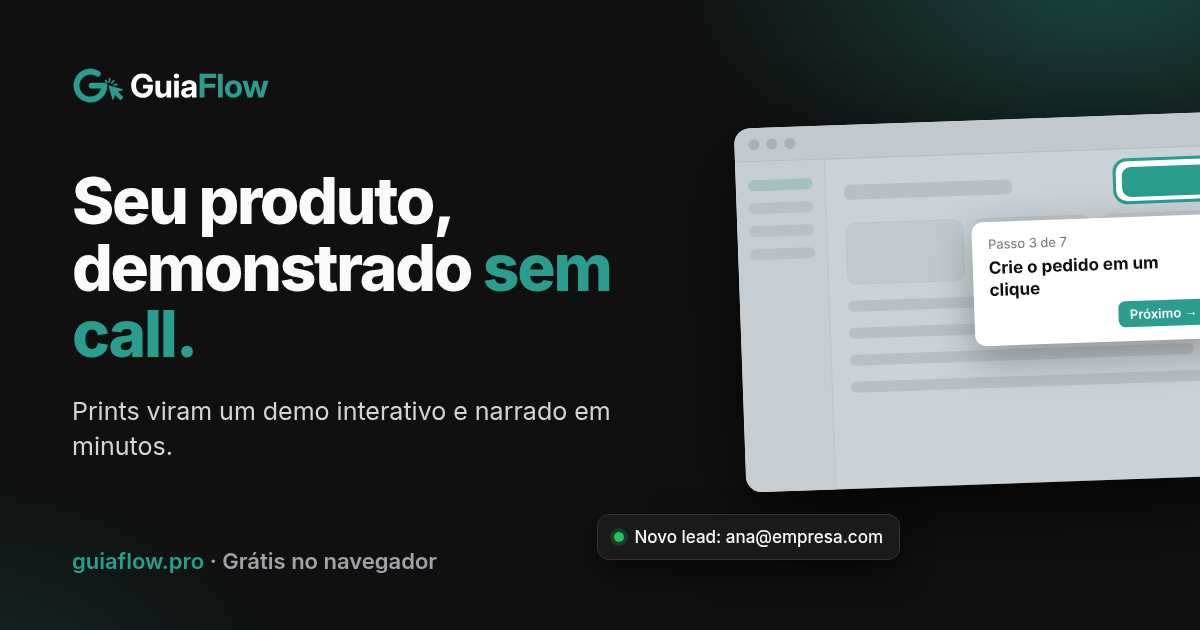
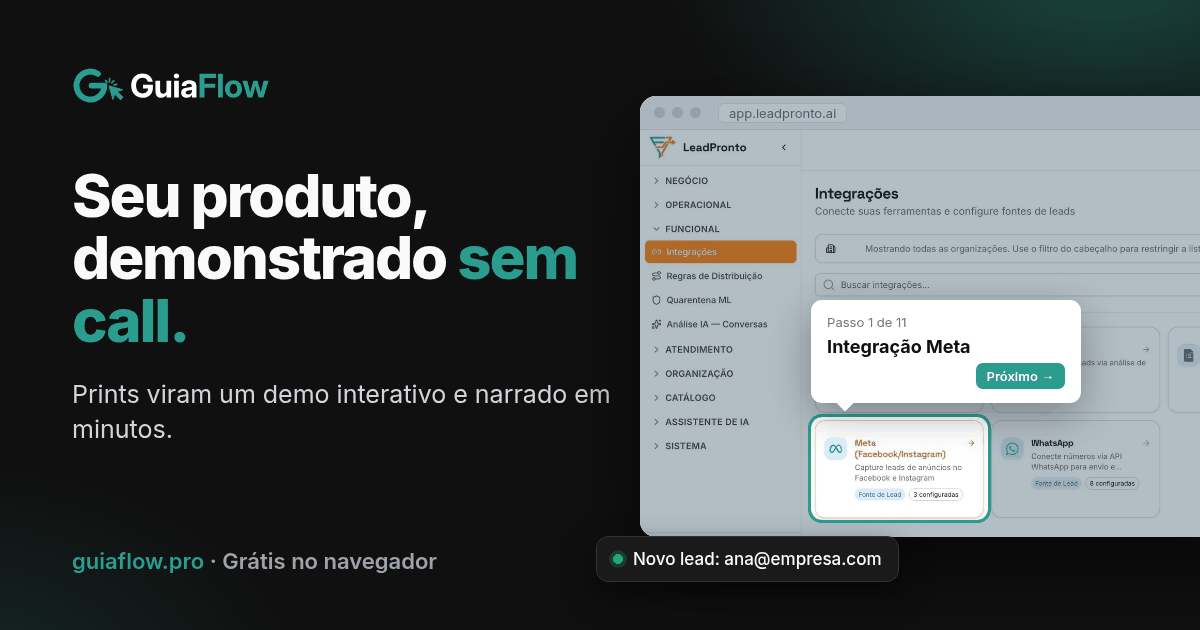
Landing: demo de exemplo = tour do LeadPronto (leadpronto-9e0052); hero e og-landing.png com captura real do tour

Changed region(s): [[0.0617, 0.1508, 1.0, 0.9048]]

diff --git a/css/landing.css b/css/landing.css
@@ -378,95 +378,34 @@ h3 {
   overflow: hidden;
 }
 
-.mock-body {
-  display: grid;
-  grid-template-columns: 22% 1fr;
-  aspect-ratio: 16 / 10.5;
-}
-
-.mock-side {
-  display: grid;
-  align-content: start;
-  gap: 10px;
-  padding: 16px 12px;
-  background: #fafafa;
-  border-right: 1px solid #f0f0f0;
-}
-
-.mock-side b,
-.mock-main b {
-  display: block;
-  height: 10px;
-  border-radius: 5px;
-  background: #e8e8eb;
-}
-
-.mock-side b:first-child {
-  background: #cfe9e5;
-}
-
-.mock-main {
+.mock-shot {
   position: relative;
-  display: grid;
-  align-content: start;
-  gap: 14px;
-  padding: 16px;
+  overflow: hidden;
+  aspect-ratio: 1200 / 787;
+  background: #fff;
 }
 
-.mock-row {
-  display: flex;
-  justify-content: space-between;
-  align-items: center;
+.mock-shot img {
+  display: block;
+  width: 100%;
+  height: auto;
 }
 
-.mock-row .w40 {
-  width: 40%;
-  height: 14px;
-}
-
-.mock-row .pill {
-  width: 22%;
-  height: 26px;
-  border-radius: 8px;
-  background: var(--teal);
-}
-
-.mock-cards {
-  display: grid;
-  grid-template-columns: repeat(3, 1fr);
-  gap: 10px;
-}
-
-.mock-cards b {
-  height: 54px;
-  border-radius: 10px;
-  background: #f4f4f5;
-  border: 1px solid #ececef;
-}
-
-.mock-table {
-  display: grid;
-  gap: 9px;
-}
-
-.mock-table b:nth-child(odd) {
-  width: 92%;
-}
-
+/* why: posições em % da captura (cartão Meta do passo 1 do tour do LeadPronto) */
 .mock-target {
   position: absolute;
-  top: 11px;
-  right: 11px;
-  width: calc(22% + 10px);
-  height: 36px;
+  left: 27.6%;
+  top: 70.6%;
+  width: 28.6%;
+  height: 25.4%;
   border-radius: 10px;
-  box-shadow: 0 0 0 3px var(--teal), 0 0 0 9999px rgba(15, 50, 72, 0.26);
+  box-shadow: 0 0 0 3px var(--teal), 0 0 0 9999px rgba(15, 50, 72, 0.32);
 }
 
 .mock-hotspot {
   position: absolute;
-  top: 22px;
-  right: calc(11% - 2px);
+  left: calc(53.4% - 8px);
+  top: calc(76.9% - 8px);
   width: 16px;
   height: 16px;
   border-radius: 50%;
@@ -482,27 +421,33 @@ h3 {
 
 .mock-pop {
   position: absolute;
-  top: 60px;
-  right: 14px;
-  width: min(250px, 72%);
+  left: 27.6%;
+  bottom: calc(29.4% + 12px);
+  width: min(270px, 60%);
   display: grid;
   gap: 4px;
   padding: 12px 14px;
   border-radius: 10px;
   background: #fff;
   color: var(--ink);
-  box-shadow: 0 12px 40px rgba(0, 0, 0, 0.25);
+  box-shadow: 0 12px 40px rgba(0, 0, 0, 0.3);
 }
 
 .mock-pop::before {
   content: "";
   position: absolute;
-  top: -6px;
-  right: 30px;
+  bottom: -6px;
+  left: 28px;
   width: 12px;
   height: 12px;
   background: #fff;
   transform: rotate(45deg);
+}
+
+.mock-desc {
+  color: #52525b;
+  font-size: 12px;
+  line-height: 1.4;
 }
 
 .mock-pop small {
@@ -1170,5 +1115,20 @@ section {
   }
   .features-grid {
     gap: 28px;
+  }
+}
+
+@media (max-width: 520px) {
+  .mock-desc,
+  .mock-wave {
+    display: none;
+  }
+
+  .mock-pop {
+    padding: 9px 11px;
+  }
+
+  .mock-pop strong {
+    font-size: 13px;
   }
 }

diff --git a/index.html b/index.html
@@ -128,21 +128,17 @@
         </div>
         <div class="hero-art" aria-hidden="true">
           <div class="mock">
-            <div class="mock-bar"><span></span><span></span><span></span><i>app.seuproduto.com</i></div>
-            <div class="mock-body">
-              <div class="mock-side"><b></b><b></b><b></b><b></b></div>
-              <div class="mock-main">
-                <div class="mock-row"><b class="w40"></b><b class="w20 pill"></b></div>
-                <div class="mock-cards"><b></b><b></b><b></b></div>
-                <div class="mock-table"><b></b><b></b><b></b><b></b></div>
-                <span class="mock-target"></span>
-                <span class="mock-hotspot"></span>
-                <div class="mock-pop">
-                  <small data-i18n="lp.mock.step">Passo 3 de 7</small>
-                  <strong data-i18n="lp.mock.title">Crie o pedido em um clique</strong>
-                  <span class="mock-wave"><i></i><i></i><i></i><i></i><i></i><i></i><i></i></span>
-                  <em data-i18n="lp.mock.next">Próximo →</em>
-                </div>
+            <div class="mock-bar"><span></span><span></span><span></span><i>app.leadpronto.ai</i></div>
+            <div class="mock-shot">
+              <img src="/a/60/brand/hero-leadpronto.webp" width="1200" height="787" alt="" fetchpriority="high" decoding="async" />
+              <span class="mock-target"></span>
+              <span class="mock-hotspot"></span>
+              <div class="mock-pop">
+                <small data-i18n="lp.mock.step">Passo 1 de 11</small>
+                <strong data-i18n="lp.mock.title">Integração Meta</strong>
+                <span class="mock-desc" data-i18n="lp.mock.desc">Capture leads de anúncios do Facebook e Instagram direto no funil.</span>
+                <span class="mock-wave"><i></i><i></i><i></i><i></i><i></i><i></i><i></i></span>
+                <em data-i18n="lp.mock.next">Próximo →</em>
               </div>
             </div>
           </div>

diff --git a/scripts/landing.test.js b/scripts/landing.test.js
@@ -75,7 +75,7 @@ test("deep links seguem: /v, /p, /oembed, auth e os rodapés apontam para /edito
   assert.ok(JSON.parse(read("package.json")).build.files.includes("editor.html"));
 });
 
-test("demo de exemplo: slug numa constante só, sem o Demo RCV, placeholder quando vazio", async () => {
+test("demo de exemplo: slug numa constante só (LeadPronto), sem o Demo RCV, placeholder quando vazio", async () => {
   const fs = await import("node:fs");
   const html = fs.readFileSync(new URL("../index.html", import.meta.url), "utf8");
   const js = fs.readFileSync(new URL("../js/landing.js", import.meta.url), "utf8");
@@ -84,6 +84,8 @@ test("demo de exemplo: slug numa constante só, sem o Demo RCV, placeholder quan
   assert.match(html, /id="demo-placeholder"/);
   assert.equal((js.match(/export const LANDING_DEMO_SLUG = /g) || []).length, 1);
   const { landingDemoUrl } = await import("../js/landing.js");
+  assert.match(js, /export const LANDING_DEMO_SLUG = "leadpronto-9e0052";/);
+  assert.match(html, /\/a\/\d+\/brand\/hero-leadpronto\.webp" width="1200" height="787"/);
   assert.equal(landingDemoUrl(""), "");
   assert.equal(landingDemoUrl("../x"), "");
   assert.equal(landingDemoUrl("javascript:alert(1)"), "");

diff --git a/js/landing-i18n.js b/js/landing-i18n.js
@@ -35,8 +35,9 @@ export const landingCatalogs = {
     "lp.hero.proof1": "Sin cuenta y sin tarjeta",
     "lp.hero.proof2": "Funciona en el navegador",
     "lp.hero.proof3": "Código abierto (MIT)",
-    "lp.mock.step": "Paso 3 de 7",
-    "lp.mock.title": "Crea el pedido con un clic",
+    "lp.mock.step": "Paso 1 de 11",
+    "lp.mock.title": "Integración con Meta",
+    "lp.mock.desc": "Captura leads de anuncios de Facebook e Instagram directo en el embudo.",
     "lp.mock.next": "Siguiente →",
     "lp.mock.toast": "Nuevo lead: ana@empresa.com",
     "lp.demo.eyebrow": "Pruébalo ahora",
@@ -162,8 +163,9 @@ export const landingCatalogs = {
     "lp.hero.proof1": "No account, no card",
     "lp.hero.proof2": "Runs in the browser",
     "lp.hero.proof3": "Open source (MIT)",
-    "lp.mock.step": "Step 3 of 7",
-    "lp.mock.title": "Create the order in one click",
+    "lp.mock.step": "Step 1 of 11",
+    "lp.mock.title": "Meta integration",
+    "lp.mock.desc": "Capture leads from Facebook and Instagram ads straight into the funnel.",
     "lp.mock.next": "Next →",
     "lp.mock.toast": "New lead: ana@company.com",
     "lp.demo.eyebrow": "Try it now",

diff --git a/js/landing.js b/js/landing.js
@@ -11,7 +11,7 @@ import { formatPaywallAmount, paywallCurrency, paywallOffer } from "./paywall.js
  * Demo de exemplo da seção #demo: slug de um link permanente publicado (/p/<slug>).
  * why: é o único lugar a trocar quando o tour de exemplo mudar; vazio = placeholder, sem iframe.
  */
-export const LANDING_DEMO_SLUG = "";
+export const LANDING_DEMO_SLUG = "leadpronto-9e0052";
 export const LANDING_DEMO_ORIGIN = "https://guiaflow.pro";
 const DEMO_SLUG_RE = /^[A-Za-z0-9][A-Za-z0-9_-]{0,80}$/;
 
